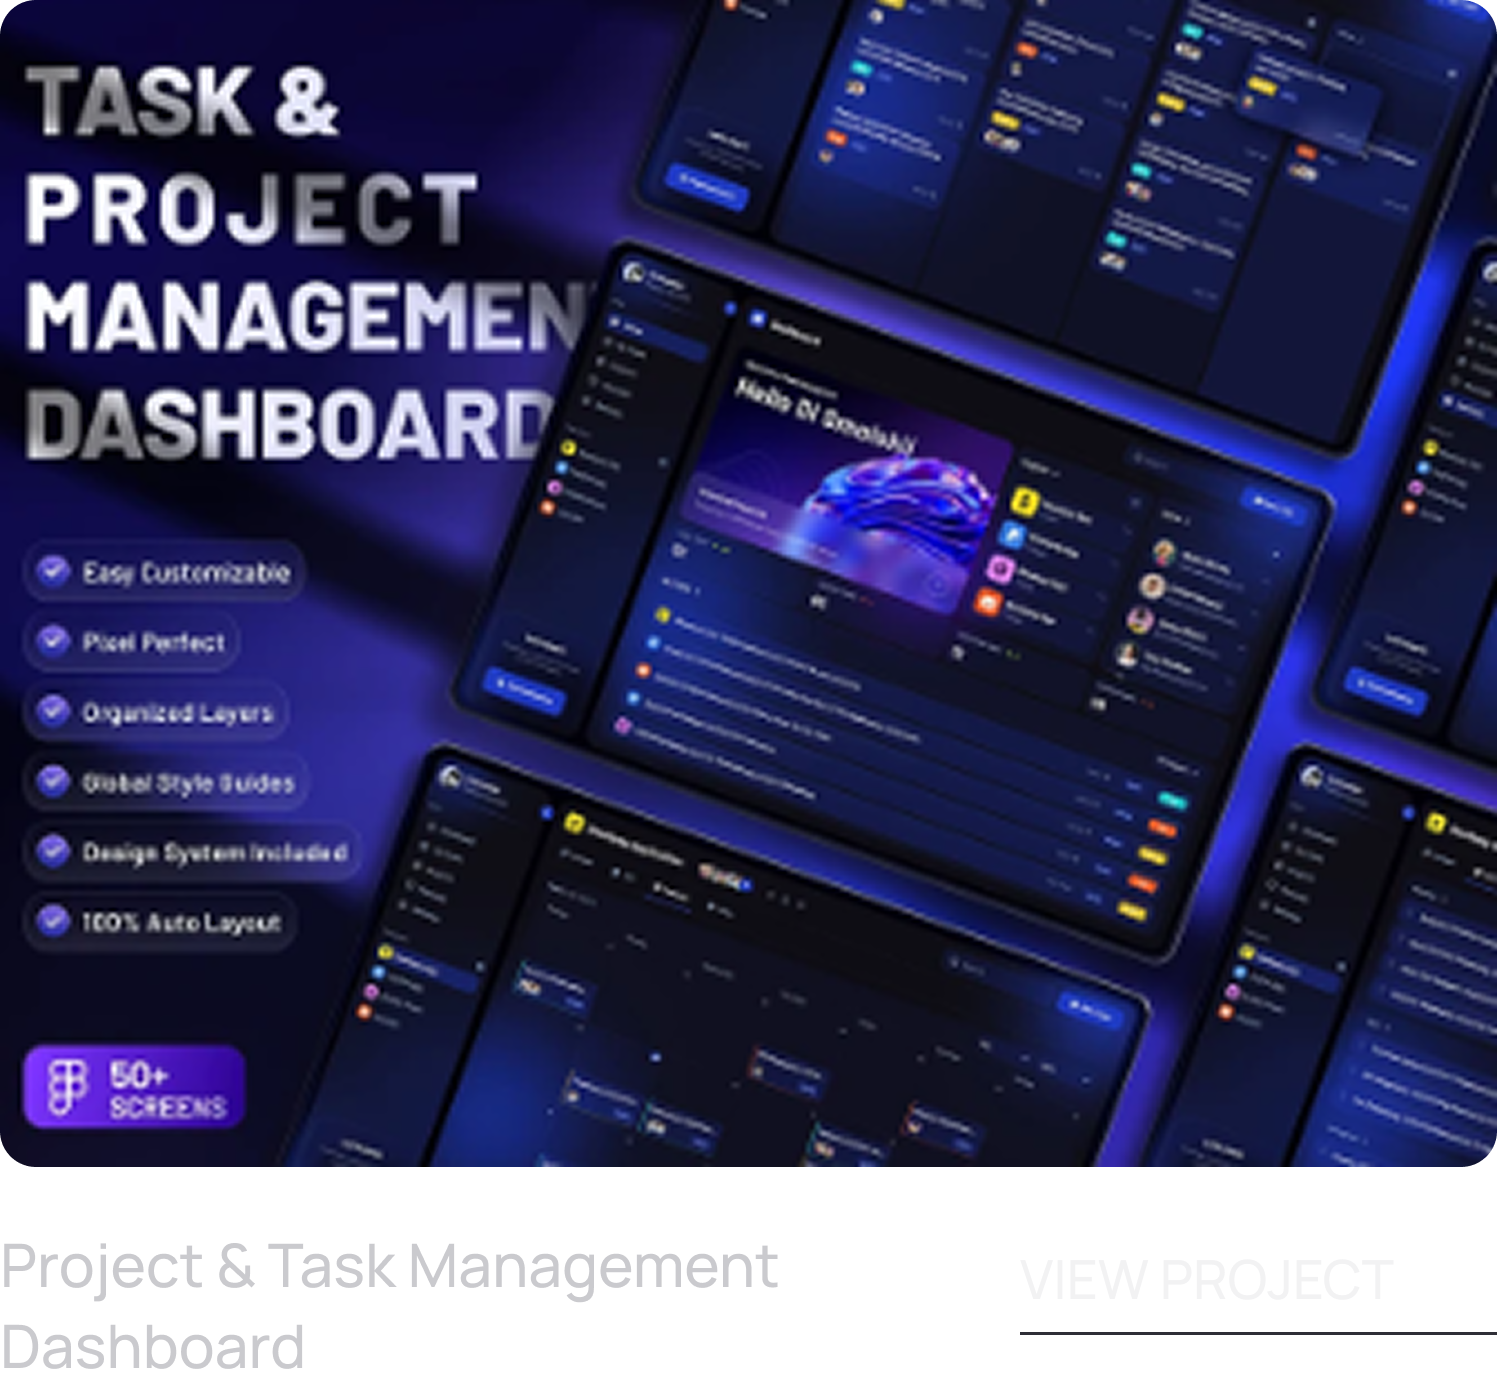
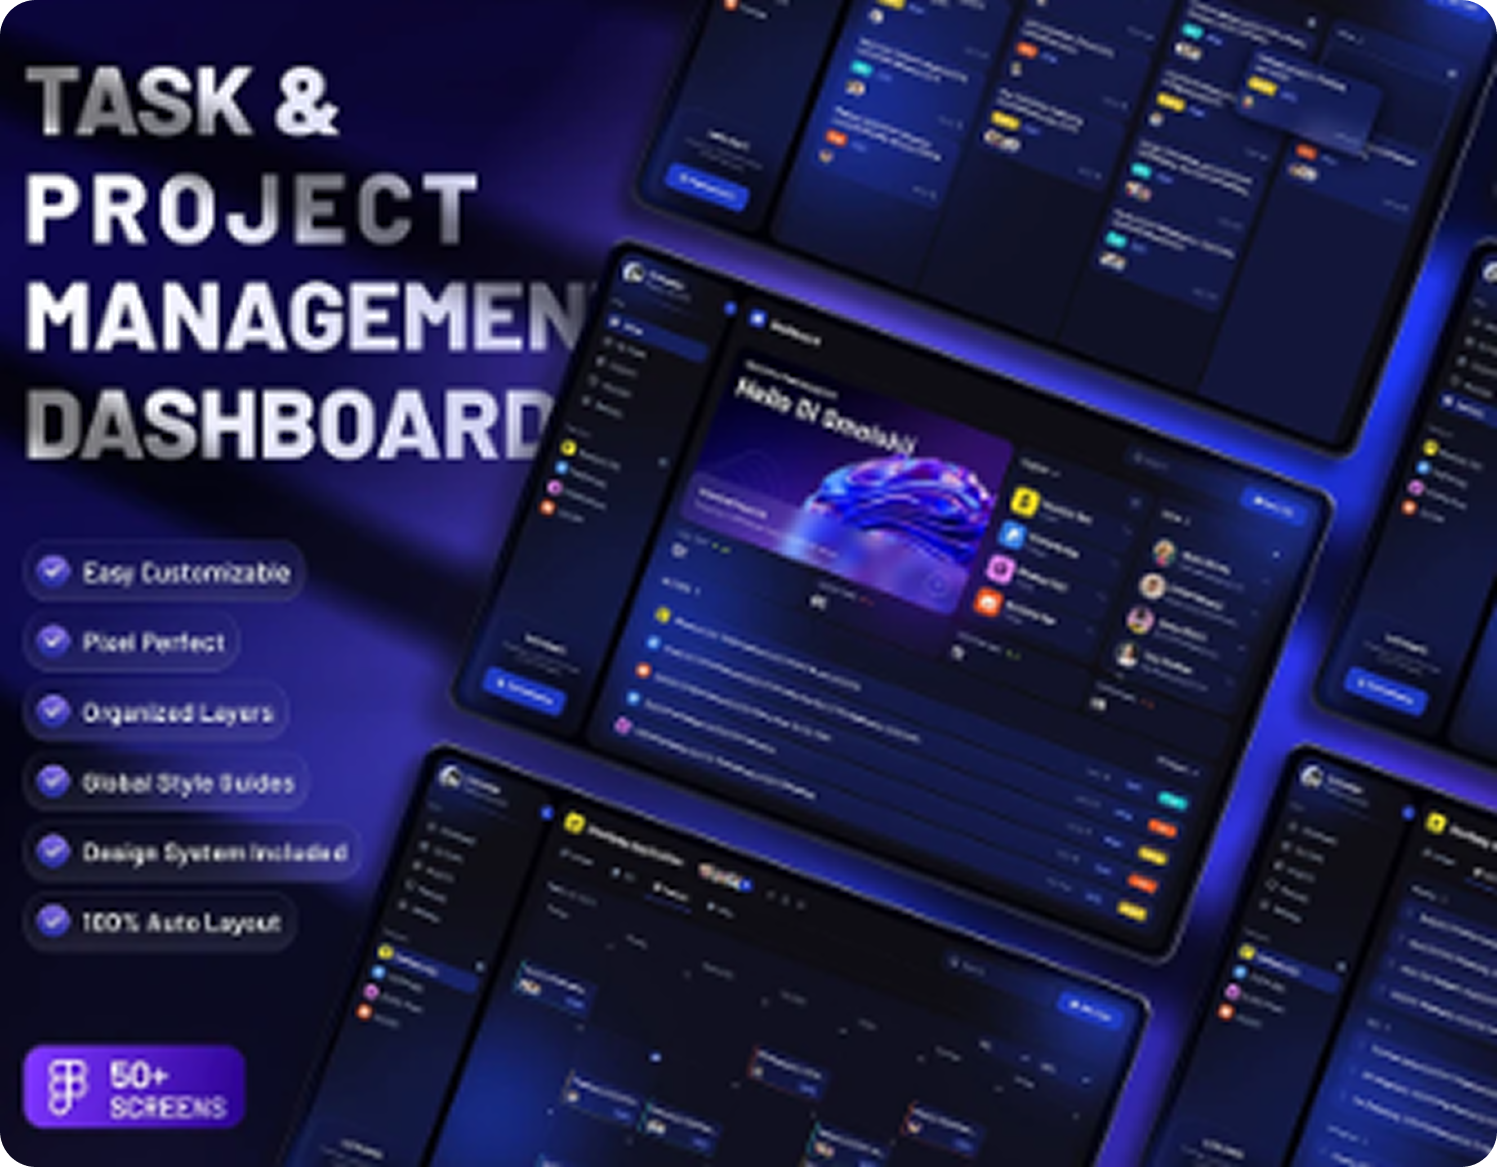
Refactor portfolio.ts for improved readability and formatting

diff --git a/src/data/portfolio.ts b/src/data/portfolio.ts
@@ -43,7 +43,10 @@ export const skills = [
 ];
 
 /** Ảnh banner ghép sẵn dưới hero. Có banner thì hiện banner, để "" thì dùng lưới 5 ô bên dưới. */
-export const showcaseBanner = { image: "/images/banner.png", alt: "UI/UX design showcase" };
+export const showcaseBanner = {
+  image: "/images/banner.png",
+  alt: "UI/UX design showcase",
+};
 
 /** Lưới ảnh ở phần showcase dưới hero (5 ô) — chỉ dùng khi showcaseBanner.image để trống */
 export const showcaseImages: { image: string; alt: string }[] = [
@@ -79,14 +82,15 @@ export const experiences: Experience[] = [
           "Led research and development and UI/UX design for an innovative Web3 digital banking ecosystem. Designed secure, transparent, and user-friendly financial interfaces for crypto/fiat management, cross-border payments, and asset tracking, and launched an integrated Telegram Mini App.",
       },
       {
-        title: "PLUGILO - AI-Powered Product Discovery & Social Commerce Platform",
+        title:
+          "PLUGILO - AI-Powered Product Discovery & Social Commerce Platform",
         description:
           "Designed a data-driven social commerce experience that leverages Artificial Intelligence to revolutionize how consumers search, compare, and discover products online, leading to over 50,000+ downloads on the App Store.",
       },
       {
         title: "EVSAFE - Smart EV Charging Network & Station Management System",
         description:
-          "Thiết kế toàn bộ trải nghiệm người dùng cho hệ thống trạm sạc xe điện, từ tìm trạm sạc theo thời gian thực, đặt chỗ, quản lý tiến trình sạc đến thanh toán, cùng Zalo Mini App giúp tài xế quét mã sạc nhanh.",
+          "Architected a complete mobile user experience for an end-to-end Electric Vehicle charging infrastructure serving both electric cars and motorbikes. Designed seamless interactive maps for station discovery, real-time charger availability, automated booking, live charging session telemetry, and flexible digital payments. Developed a lightweight Zalo Mini App alongside the native application to enable instant scan-to-charge functionality for casual drivers without requiring a full app installation.",
       },
     ],
   },
@@ -97,7 +101,8 @@ export const experiences: Experience[] = [
       "Served as Senior UI/UX Designer, taking charge of end-to-end design execution and business process analysis. Led the research, feature architecture, and product design for digital banking transformation initiatives and cryptocurrency/digital currency platforms, bridging complex financial logic into intuitive, secure user experiences.",
     projects: [
       {
-        title: "Foundation - Digital Currency & Crypto Asset Management Platform",
+        title:
+          "Foundation - Digital Currency & Crypto Asset Management Platform",
         description:
           "Spearheaded the UI/UX architecture and business requirement analysis for Foundation, a digital currency trading and crypto asset management platform. Designed robust financial workflows, secure digital wallet interfaces, real-time market data visualization, and seamless transaction execution systems to ensure a highly intuitive and trusted user experience for cryptocurrency investors.",
       },
@@ -148,10 +153,34 @@ export const allWorksUrl = "https://www.behance.net/hoangbinh21/projects";
 const behance = (path: string) => `https://www.behance.net/gallery/${path}`;
 
 export const projects: Project[] = [
-  { title: "Project & Task Management Dashboard", image: "/images/projects/1.png", href: behance("219180865/Project-Task-Management-Dashboard-UI-KIT") },
-  { title: "Work Mate - UI HR Management & Task Management", image: "/images/projects/2.png", href: behance("212559635/Work-Mate-UI-HR-Management-Task-Management") },
-  { title: "Fonoforge - AI Voice & Video Generator App UI", image: "/images/projects/3.png", href: behance("197692081/AI-Voice-Video-Generator-App-UI") },
-  { title: "ActiveStep - Step Tracker App UX Case Study", image: "/images/projects/4.png", href: behance("212560497/ActiveStep-Step-Traker-App-UX-Case-Study") },
-  { title: "Alipay - EWallet App Figma Template", image: "/images/projects/5.png", href: allWorksUrl /* chưa có trên Behance */ },
-  { title: "Modavo - Multipurpose WooCommerce", image: "/images/projects/6.png", href: behance("219275461/Multipurpose-WooCommerce") },
+  {
+    title: "Project & Task Management Dashboard",
+    image: "/images/projects/1.png",
+    href: behance("219180865/Project-Task-Management-Dashboard-UI-KIT"),
+  },
+  {
+    title: "Work Mate - UI HR Management & Task Management",
+    image: "/images/projects/2.png",
+    href: behance("212559635/Work-Mate-UI-HR-Management-Task-Management"),
+  },
+  {
+    title: "Fonoforge - AI Voice & Video Generator App UI",
+    image: "/images/projects/3.png",
+    href: behance("197692081/AI-Voice-Video-Generator-App-UI"),
+  },
+  {
+    title: "ActiveStep - Step Tracker App UX Case Study",
+    image: "/images/projects/4.png",
+    href: behance("212560497/ActiveStep-Step-Traker-App-UX-Case-Study"),
+  },
+  {
+    title: "Alipay - EWallet App Figma Template",
+    image: "/images/projects/5.png",
+    href: allWorksUrl /* chưa có trên Behance */,
+  },
+  {
+    title: "Modavo - Multipurpose WooCommerce",
+    image: "/images/projects/6.png",
+    href: behance("219275461/Multipurpose-WooCommerce"),
+  },
 ];
